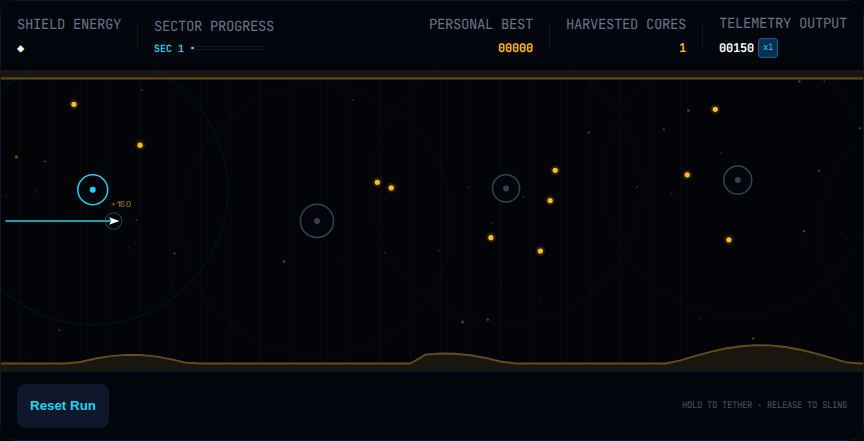
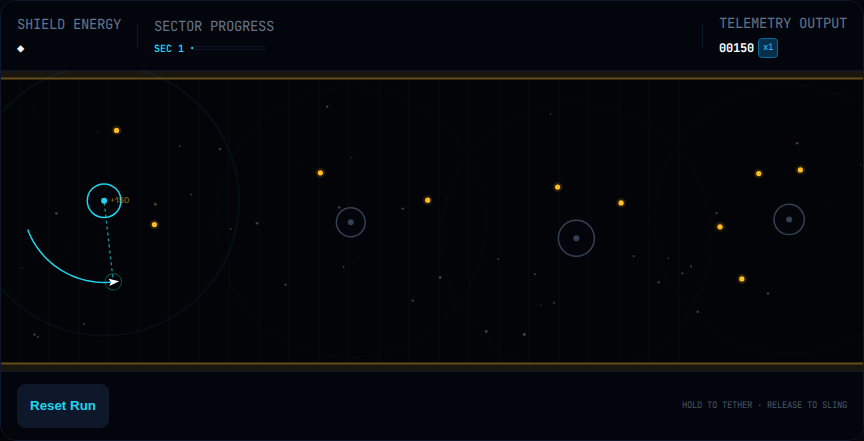
feat: sharpen the tether feedback and flight focus

diff --git a/src/main.ts b/src/main.ts
@@ -50,6 +50,7 @@ window.addEventListener('DOMContentLoaded', () => {
       saveState.totalCores,
     );
     engine.setGamePhase(GamePhase.FLYING);
+    document.querySelector('.canvas-card')?.classList.add('run-active');
     canvas.focus({ preventScroll: true });
     ui.announceStatus(
       isDaily ? 'Daily challenge started.' : 'Standard flight started.',
@@ -124,6 +125,7 @@ window.addEventListener('DOMContentLoaded', () => {
       );
     },
     onRunEnded: (result) => {
+      document.querySelector('.canvas-card')?.classList.remove('run-active');
       ui.announceStatus('Flight ended after a collision. Results are shown.');
       const { x, y, score: finalScore, sectorReached } = result;
       const dailyContext =
@@ -303,6 +305,7 @@ window.addEventListener('DOMContentLoaded', () => {
 
   function resetToSplash(): void {
     cancelHeldInputs();
+    document.querySelector('.canvas-card')?.classList.remove('run-active');
     particles.clear();
     engine.initializeLevel(runContext, saveState.upgrades);
     ui.updateCoreCount(
@@ -325,6 +328,7 @@ window.addEventListener('DOMContentLoaded', () => {
   let reducedMotion =
     saveState.preferences.reducedMotion ?? motionQuery.matches;
   renderer.setReducedMotion(reducedMotion);
+  particles.setReducedMotion(reducedMotion);
   document.documentElement.dataset.reducedMotion = String(reducedMotion);
 
   const debugMode =
@@ -592,6 +596,7 @@ window.addEventListener('DOMContentLoaded', () => {
       saveState.setPreference('reducedMotion', preference);
       reducedMotion = preference ?? motionQuery.matches;
       renderer.setReducedMotion(reducedMotion);
+      particles.setReducedMotion(reducedMotion);
       document.documentElement.dataset.reducedMotion = String(reducedMotion);
     });
   }
@@ -599,6 +604,7 @@ window.addEventListener('DOMContentLoaded', () => {
     if (saveState.preferences.reducedMotion !== null) return;
     reducedMotion = event.matches;
     renderer.setReducedMotion(reducedMotion);
+    particles.setReducedMotion(reducedMotion);
     document.documentElement.dataset.reducedMotion = String(reducedMotion);
   });
 

diff --git a/src/renderer/canvasRenderer.ts b/src/renderer/canvasRenderer.ts
@@ -1,6 +1,11 @@
 import { SparkState, MapData, TrailBuffer } from '../types';
 import { ParticleEngine } from '../effects/particles';
-import { FlightState, GamePhase, SHIP_SKINS } from '../constants';
+import {
+  DEFAULT_CONFIG,
+  FlightState,
+  GamePhase,
+  SHIP_SKINS,
+} from '../constants';
 import { WORLD_VIEWPORT_HEIGHT } from '../constants';
 import {
   cameraOffsetForSpark,
@@ -303,12 +308,19 @@ export class CanvasRenderer {
         (n) => n.id === spark.orbitalNodeId,
       );
       if (targetNode) {
+        const tension = Math.min(
+          1,
+          Math.abs(spark.angularSpeed) / DEFAULT_CONFIG.maxAngularSpeed,
+        );
         this.ctx.beginPath();
         this.ctx.moveTo(spark.x, spark.y);
         this.ctx.lineTo(targetNode.x, targetNode.y);
-        this.ctx.strokeStyle = '#22d3ee';
-        this.ctx.lineWidth = 2;
+        this.ctx.strokeStyle = `rgba(34, 211, 238, ${0.6 + tension * 0.4})`;
+        this.ctx.lineWidth = 1.5 + tension * 2;
         this.ctx.setLineDash([4, 4]);
+        this.ctx.lineDashOffset = this.reducedMotion
+          ? 0
+          : -(performance.now() / 80) % 8;
         this.ctx.stroke();
         this.ctx.setLineDash([]);
       }

diff --git a/src/effects/particles.ts b/src/effects/particles.ts
@@ -13,6 +13,7 @@ export class ParticleEngine {
   private maxParticles: number;
   private pool: Particle[];
   private activeCount: number = 0;
+  private reducedMotion = false;
 
   constructor(maxParticles: number = 150) {
     this.maxParticles = maxParticles;
@@ -35,6 +36,10 @@ export class ParticleEngine {
     return this.activeCount;
   }
 
+  public setReducedMotion(enabled: boolean): void {
+    this.reducedMotion = enabled;
+  }
+
   public getPool(): ReadonlyArray<Particle> {
     return this.pool;
   }
@@ -46,7 +51,10 @@ export class ParticleEngine {
     speed: number = 4,
     count: number = 10,
   ): void {
-    for (let i = 0; i < count; i++) {
+    const particleCount = this.reducedMotion
+      ? Math.max(1, Math.ceil(count * 0.4))
+      : count;
+    for (let i = 0; i < particleCount; i++) {
       if (this.activeCount >= this.maxParticles) return;
 
       const angle = Math.random() * Math.PI * 2;

diff --git a/tests/browser/smoke.spec.ts b/tests/browser/smoke.spec.ts
@@ -94,6 +94,8 @@ test('pause, navigation, resume, and reset use consistent run transitions', asyn
   await page
     .getByRole('button', { name: 'Activate Ship Fusion Engines' })
     .click();
+  await expect(page.locator('#hud-personal-best')).toBeHidden();
+  await expect(page.locator('#hud-run-cores')).toBeHidden();
   await page
     .getByRole('button', { name: 'Navigate to Upgrades Terminal' })
     .click();
@@ -102,6 +104,7 @@ test('pause, navigation, resume, and reset use consistent run transitions', asyn
   await page.getByRole('button', { name: 'Navigate to Cockpit View' }).click();
   await expect(page.locator('#pause-overlay')).toHaveCSS('opacity', '0');
   await page.locator('#btn-play').click();
+  await expect(page.locator('#hud-personal-best')).toBeVisible();
   await expect(page.locator('#launch-prompt-overlay')).toHaveCSS(
     'opacity',
     '1',

diff --git a/index.html b/index.html
@@ -108,12 +108,12 @@
           </div>
 
           <div class="hud-right-group">
-            <div class="hud-metric align-right">
+            <div class="hud-metric align-right hud-secondary">
               <span id="hud-pb-label" class="hud-metric-label mono">Personal Best</span>
               <span id="hud-personal-best" class="run-cores-value mono">00000</span>
             </div>
-            <div class="hud-separator"></div>
-            <div class="hud-metric align-right">
+            <div class="hud-separator hud-secondary"></div>
+            <div class="hud-metric align-right hud-secondary">
               <span class="hud-metric-label mono">Harvested Cores</span>
               <span id="hud-run-cores" class="run-cores-value mono">0</span>
             </div>

diff --git a/tests/particles.test.ts b/tests/particles.test.ts
@@ -92,4 +92,14 @@ describe('ParticleEngine', () => {
     engine.update(0.1);
     expect(engine.getActiveCount()).toBe(0);
   });
+
+  test('reduced motion keeps event feedback while using fewer particles', () => {
+    const engine = new ParticleEngine(20);
+    engine.setReducedMotion(true);
+    engine.spawn(0, 0, '#fff', 4, 5);
+    expect(engine.getActiveCount()).toBe(2);
+    engine.clear();
+    engine.spawn(0, 0, '#fff', 4, 1);
+    expect(engine.getActiveCount()).toBe(1);
+  });
 });

diff --git a/src/style.css b/src/style.css
@@ -397,6 +397,10 @@ canvas#game-canvas:focus-visible {
   box-shadow: 0 25px 50px -12px rgba(0, 0, 0, 0.55);
 }
 
+.canvas-card.run-active .hud-secondary {
+  display: none;
+}
+
 /* HUD Info Bar */
 .hud-info-bar {
   background-color: rgba(2, 6, 12, 0.9);

diff --git a/docs/PLAYTEST_PROTOCOL.md b/docs/PLAYTEST_PROTOCOL.md
@@ -1,0 +1,19 @@
+# First-session playtest
+
+Use this short script with five people who have not played GravityPivot. Do not explain the controls before the first attempt. Ask them to think aloud, but do not coach during the first 30 seconds.
+
+1. Start a Standard run and play naturally for up to one minute.
+2. After the first run, ask: “What caused that run to end?”, “What would you try differently?”, and “Would you play again?”
+3. Let them retry once. Note whether they discover hold → orbit → release without help.
+
+Record one row per person. Do not collect names or other personal data.
+
+| Session | Device / viewport | Seconds to first deliberate tether and release | Pause/reset confusion | Understood collision cause? | Retried? | Notable quote or observation |
+| --- | --- | ---: | --- | --- | --- | --- |
+| 1 | | | | | | |
+| 2 | | | | | | |
+| 3 | | | | | | |
+| 4 | | | | | | |
+| 5 | | | | | | |
+
+After the five sessions, group repeated issues and choose one change at a time. Do not use these sessions as statistical proof of fairness or broad accessibility. Re-run the same short script after onboarding or cockpit changes. Keep Daily geometry changes separate until their rules version and seeded safety checks are updated.
